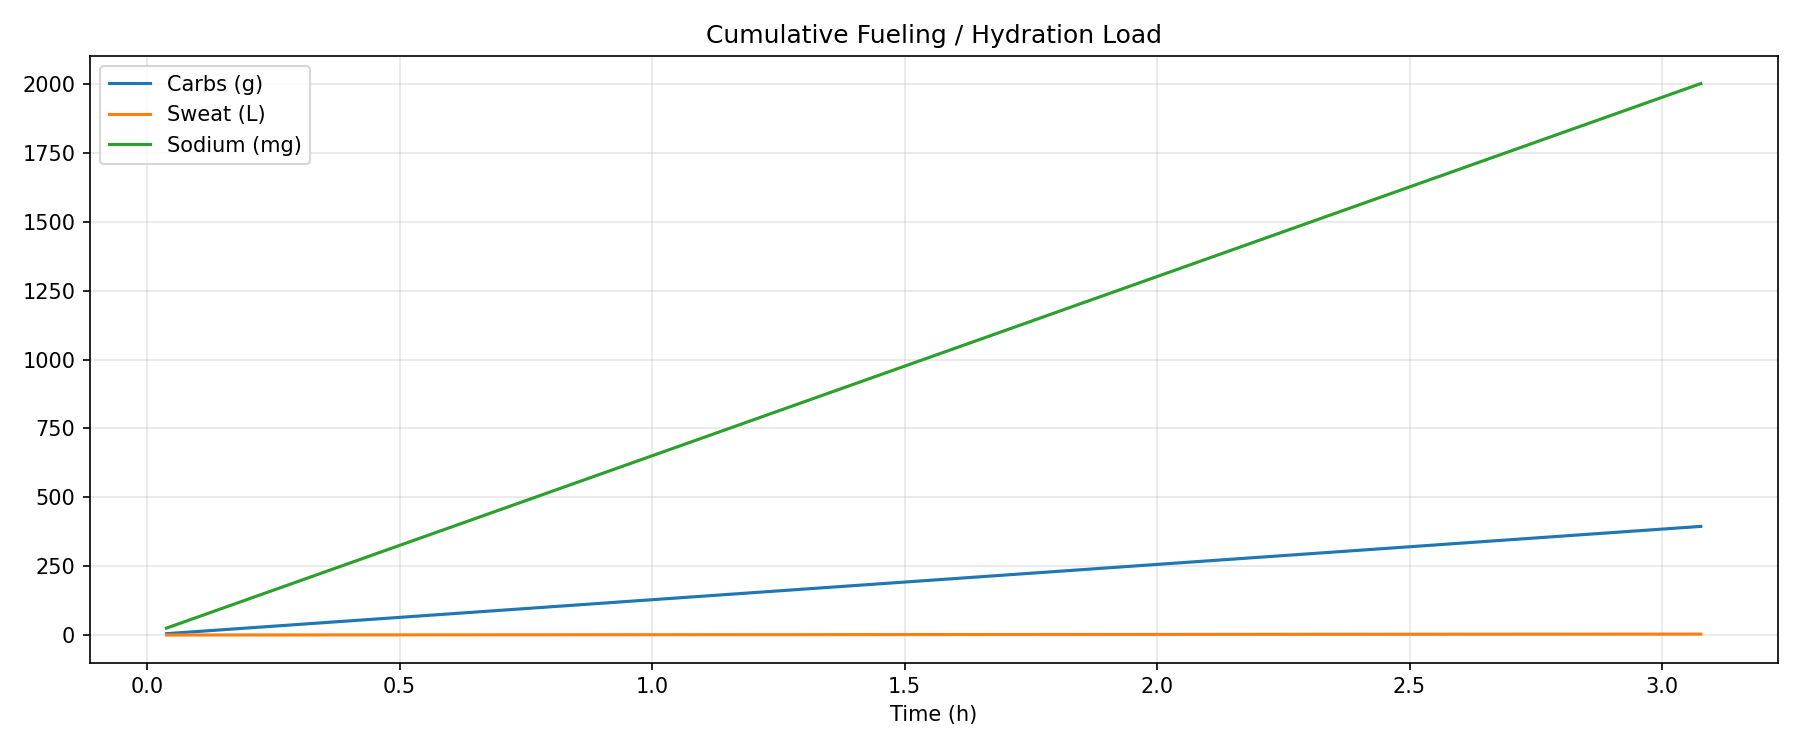
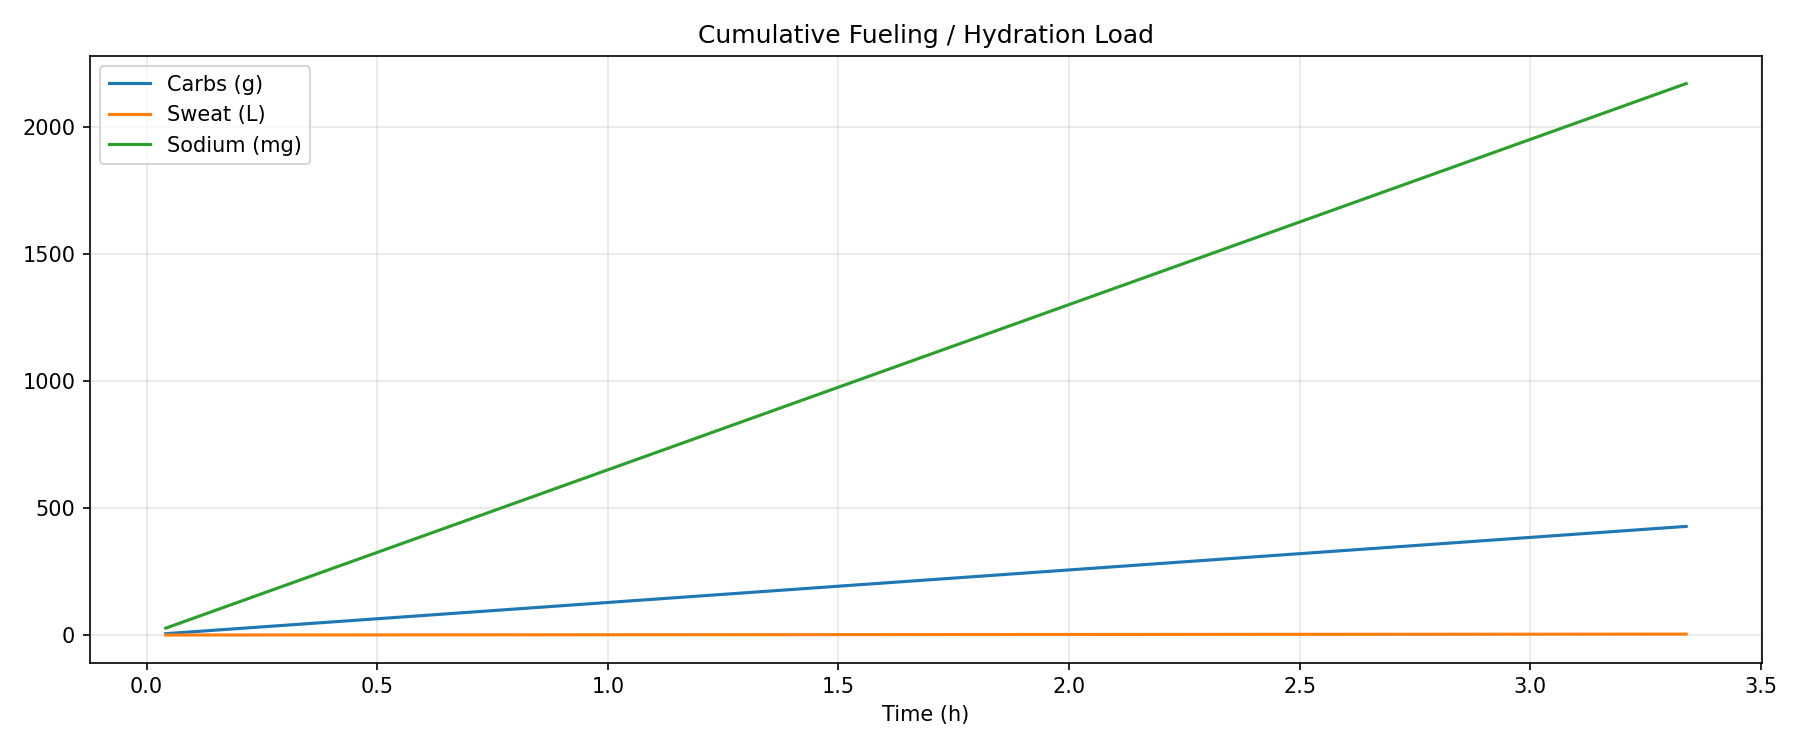
Wire app to surface and aero presets

diff --git a/app.py b/app.py
@@ -1,100 +1,59 @@
-from gpx_utils import (
-    load_gpx,
-    build_segments,
-    build_manual_route,
-)
-
+from gpx_utils import load_gpx, build_segments, build_manual_route
 from simulator import simulate_route
+from reporting import summarize_ride, print_ride_summary, build_fueling_plan
+from charts import plot_route_profile, plot_fueling_curves
+from presets import get_surface_crr, get_aero_cda
 
-from reporting import (
-    summarize_ride,
-    print_ride_summary,
-    build_fueling_plan,
-)
-
-from charts import (
-    plot_route_profile,
-    plot_fueling_curves,
-)
-
-
-# ==========================================================
-# USER CONFIGURATION
-# ==========================================================
 
 USE_GPX = False
-
 GPX_PATH = "sample_routes/my_ride.gpx"
 
-# Rider
 RIDER_MASS_KG = 95
 BIKE_MASS_KG = 9
-
-# Estimated sustainable fitness
 FITNESS_WKG = 3.0
 
-# Manual route mode
 DISTANCE_KM = 80
 ELEVATION_GAIN_M = 1200
 
-# Weather
 TEMP_C = 24
 HUMIDITY_PCT = 50
-
-# Wind
 WIND_KMH = 5
-WIND_MODE = "head"  # head / tail
+WIND_MODE = "head"
 
-# Bike
 CHAINRING_TEETH = 34
 CASSETTE_TEETH = 32
-
-# Hydration
 BOTTLE_SIZES_ML = [750, 750]
 
-# GPX processing
+SURFACE = "mixed_gravel"
+AERO_POSITION = "endurance_road"
+
 SEGMENT_LENGTH_M = 1000
 ELEVATION_SMOOTH_WINDOW = 7
 
 
-# ==========================================================
-# BUILD ROUTE
-# ==========================================================
-
 def build_route():
-
     if USE_GPX:
-
         print(f"\nLoading GPX file: {GPX_PATH}")
-
         gpx_df = load_gpx(GPX_PATH)
-
-        segments = build_segments(
+        return build_segments(
             gpx_df,
             segment_length_m=SEGMENT_LENGTH_M,
             elevation_smooth_window=ELEVATION_SMOOTH_WINDOW,
         )
 
-    else:
+    print("\nUsing manual route mode")
+    return build_manual_route(
+        distance_km=DISTANCE_KM,
+        elevation_gain_m=ELEVATION_GAIN_M,
+        segment_length_m=SEGMENT_LENGTH_M,
+    )
 
-        print("\nUsing manual route mode")
-
-        segments = build_manual_route(
-            distance_km=DISTANCE_KM,
-            elevation_gain_m=ELEVATION_GAIN_M,
-            segment_length_m=SEGMENT_LENGTH_M,
-        )
-
-    return segments
-
-
-# ==========================================================
-# RUN SIMULATION
-# ==========================================================
 
 def run_simulation(segments):
+    crr = get_surface_crr(SURFACE)
+    cda = get_aero_cda(AERO_POSITION)
 
-    sim = simulate_route(
+    return simulate_route(
         segments_df=segments,
         rider_mass_kg=RIDER_MASS_KG,
         bike_mass_kg=BIKE_MASS_KG,
@@ -105,17 +64,12 @@ def run_simulation(segments):
         wind_mode=WIND_MODE,
         chainring_teeth=CHAINRING_TEETH,
         cassette_teeth=CASSETTE_TEETH,
+        cda=cda,
+        crr=crr,
     )
 
-    return sim
-
-
-# ==========================================================
-# REPORTING
-# ==========================================================
 
 def print_reports(sim):
-
     summary = summarize_ride(
         sim_df=sim,
         rider_mass_kg=RIDER_MASS_KG,
@@ -124,35 +78,22 @@ def print_reports(sim):
 
     print_ride_summary(summary)
 
-    fueling_plan = build_fueling_plan(
-        sim_df=sim,
-        block_minutes=20,
-    )
+    fueling_plan = build_fueling_plan(sim_df=sim, block_minutes=20)
 
-    print("\n")
-    print("=" * 60)
+    print("\n" + "=" * 60)
     print("FUELING / HYDRATION PLAN")
     print("=" * 60)
 
     if fueling_plan.empty:
         print("Ride too short for fueling blocks.")
     else:
-        print(
-            fueling_plan.to_string(index=False)
-        )
+        print(fueling_plan.to_string(index=False))
 
-    print("\n")
-    print("=" * 60)
+    print("\n" + "=" * 60)
     print("TOP 10 HARDEST SEGMENTS")
     print("=" * 60)
 
-    hardest = (
-        sim.sort_values(
-            by="grade_pct",
-            ascending=False,
-        )
-        .head(10)
-    )
+    hardest = sim.sort_values(by="grade_pct", ascending=False).head(10)
 
     cols = [
         "segment_id",
@@ -164,90 +105,61 @@ def print_reports(sim):
         "cadence_rpm",
     ]
 
-    print(
-        hardest[cols]
-        .round(1)
-        .to_string(index=False)
-    )
+    print(hardest[cols].round(1).to_string(index=False))
 
-    print("\n")
-    print("=" * 60)
+    print("\n" + "=" * 60)
     print("LOW CADENCE SEGMENTS")
     print("=" * 60)
 
-    low_cadence = sim[
-        sim["low_cadence_flag"]
-    ]
+    low_cadence = sim[sim["low_cadence_flag"]]
 
     if low_cadence.empty:
         print("No low cadence segments detected.")
     else:
-
-        cols = [
-            "segment_id",
-            "start_km",
-            "end_km",
-            "grade_pct",
-            "speed_kmh",
-            "cadence_rpm",
-        ]
-
         print(
-            low_cadence[cols]
+            low_cadence[
+                [
+                    "segment_id",
+                    "start_km",
+                    "end_km",
+                    "grade_pct",
+                    "speed_kmh",
+                    "cadence_rpm",
+                ]
+            ]
             .round(1)
             .to_string(index=False)
         )
 
 
-# ==========================================================
-# CHARTS
-# ==========================================================
-
 def export_charts(sim):
+    route_chart = plot_route_profile(sim, output_path="route_profile.png")
+    fueling_chart = plot_fueling_curves(sim, output_path="fueling_curves.png")
 
-    route_chart = plot_route_profile(
-        sim,
-        output_path="route_profile.png",
-    )
-
-    fueling_chart = plot_fueling_curves(
-        sim,
-        output_path="fueling_curves.png",
-    )
-
-    print("\n")
-    print("=" * 60)
+    print("\n" + "=" * 60)
     print("CHARTS SAVED")
     print("=" * 60)
     print(route_chart)
     print(fueling_chart)
 
 
-# ==========================================================
-# MAIN
-# ==========================================================
-
 def main():
+    print("=" * 60)
+    print("BIKE SCIENCE PRO")
+    print("=" * 60)
+    print(f"Surface:       {SURFACE}")
+    print(f"Aero position: {AERO_POSITION}")
 
     segments = build_route()
-
-    print(
-        f"\nRoute contains {len(segments)} segments"
-    )
+    print(f"\nRoute contains {len(segments)} segments")
 
     sim = run_simulation(segments)
 
     print_reports(sim)
-
     export_charts(sim)
 
     return sim
 
 
-# ==========================================================
-# ENTRY POINT
-# ==========================================================
-
 if __name__ == "__main__":
-
     simulation = main()

diff --git a/presets.py b/presets.py
@@ -1,0 +1,64 @@
+# ==========================================================
+# SURFACE PRESETS
+# ==========================================================
+# Crr = rolling resistance coefficient.
+# Higher Crr = more energy lost to tire/surface deformation.
+
+SURFACE_PRESETS = {
+    "smooth_road": {
+        "label": "Smooth road",
+        "crr": 0.004,
+    },
+    "normal_road": {
+        "label": "Normal road",
+        "crr": 0.005,
+    },
+    "hardpack_gravel": {
+        "label": "Hardpack gravel",
+        "crr": 0.007,
+    },
+    "mixed_gravel": {
+        "label": "Mixed gravel",
+        "crr": 0.010,
+    },
+    "rough_gravel": {
+        "label": "Rough gravel",
+        "crr": 0.014,
+    },
+}
+
+
+# ==========================================================
+# AERO PRESETS
+# ==========================================================
+
+AERO_PRESETS = {
+    "upright_gravel": {
+        "label": "Upright gravel",
+        "cda": 0.42,
+    },
+    "endurance_road": {
+        "label": "Endurance road",
+        "cda": 0.35,
+    },
+    "aggressive_road": {
+        "label": "Aggressive road",
+        "cda": 0.30,
+    },
+}
+
+
+def get_surface_crr(surface_key):
+    if surface_key not in SURFACE_PRESETS:
+        valid = ", ".join(SURFACE_PRESETS.keys())
+        raise ValueError(f"Unknown surface '{surface_key}'. Valid options: {valid}")
+
+    return SURFACE_PRESETS[surface_key]["crr"]
+
+
+def get_aero_cda(aero_key):
+    if aero_key not in AERO_PRESETS:
+        valid = ", ".join(AERO_PRESETS.keys())
+        raise ValueError(f"Unknown aero preset '{aero_key}'. Valid options: {valid}")
+
+    return AERO_PRESETS[aero_key]["cda"]
